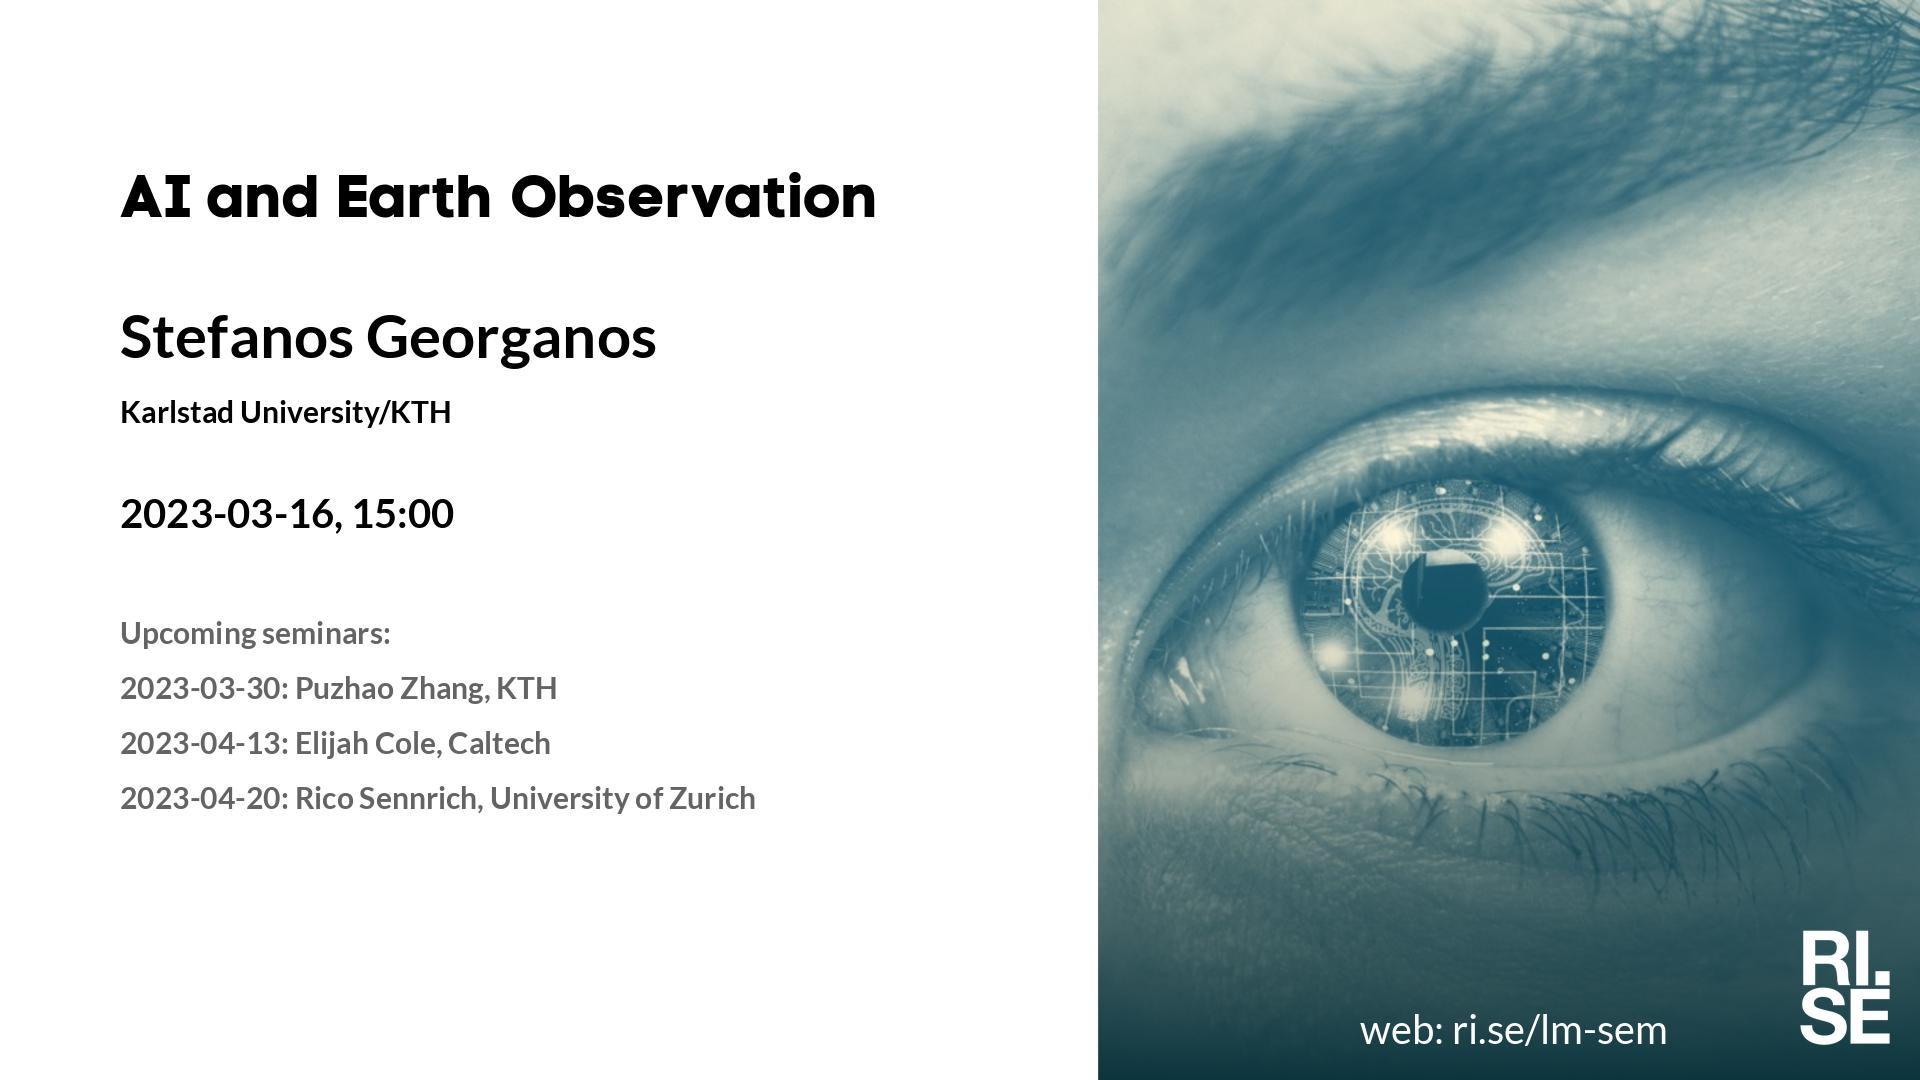
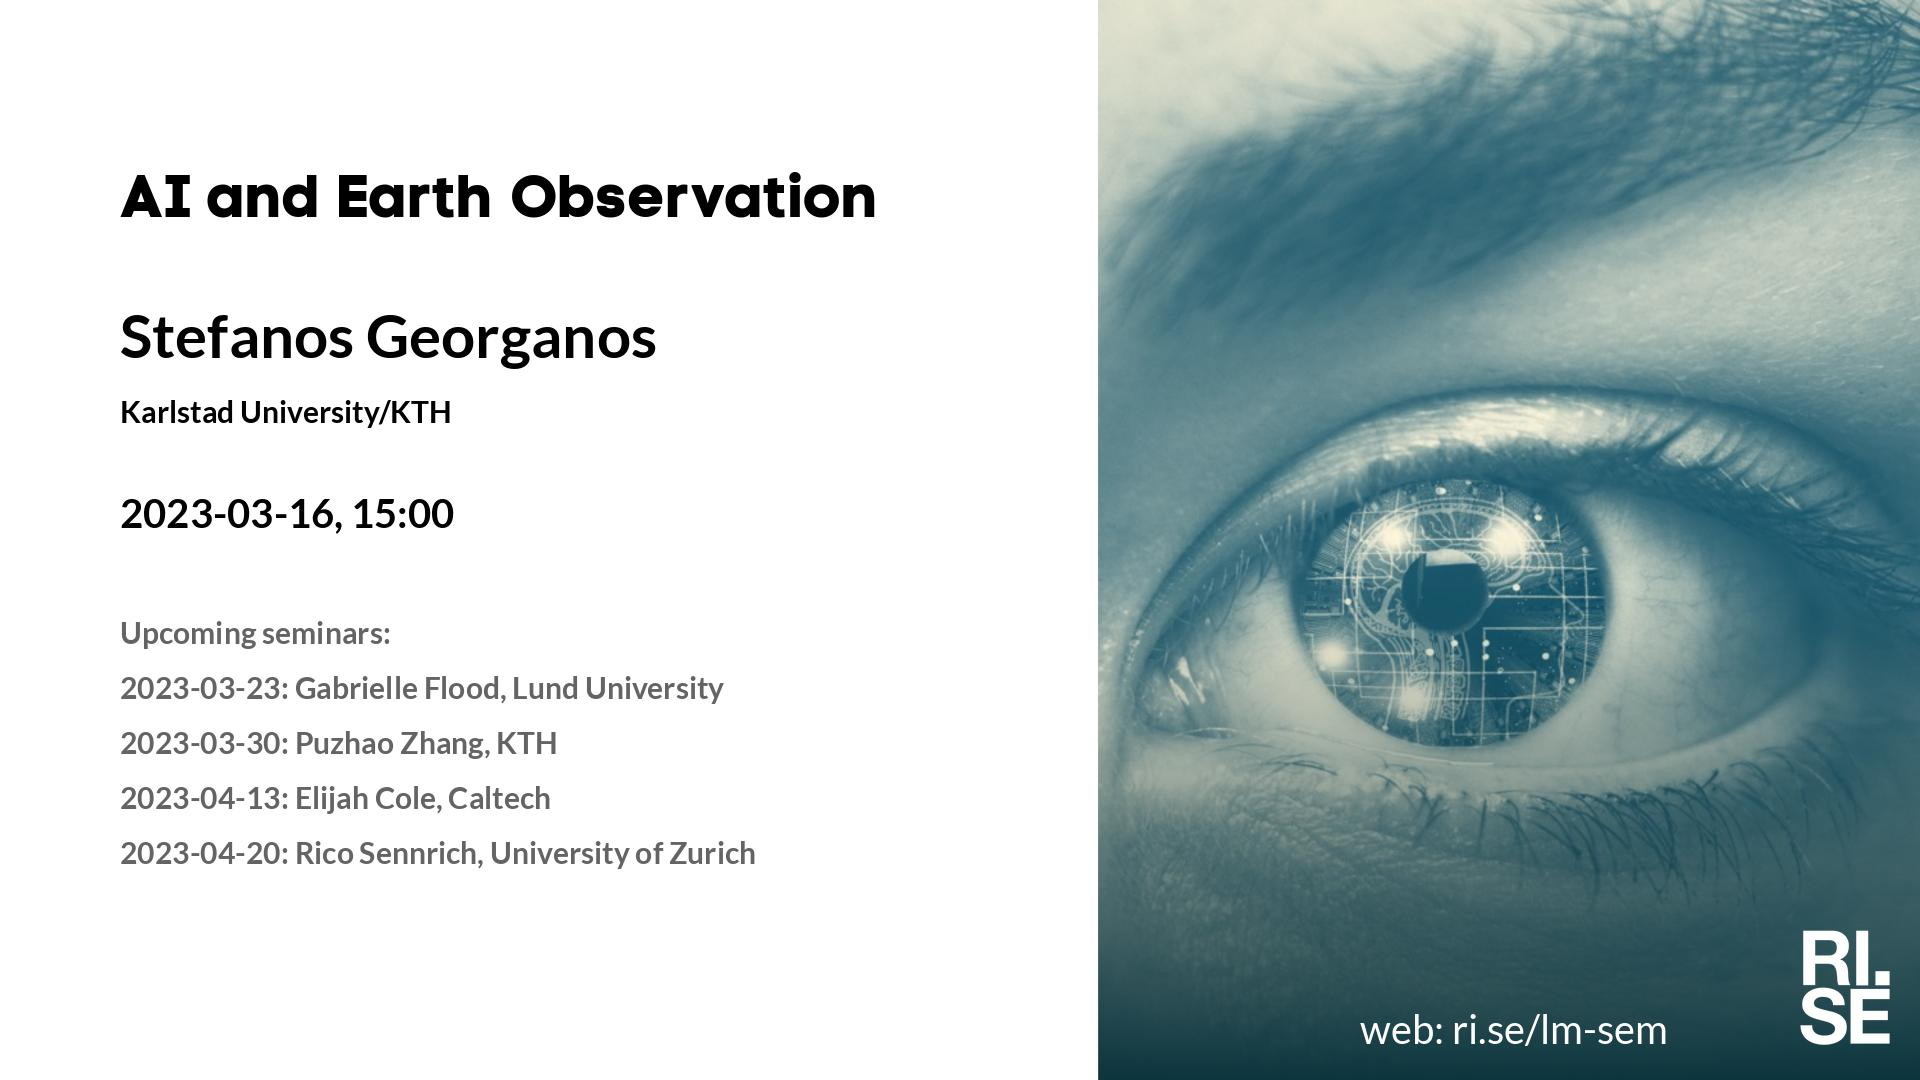
Updated plan on web site.

Changed region(s): [[0.0625, 0.7333, 0.4062, 0.825], [0.0938, 0.6111, 0.375, 0.7028]]

diff --git a/lm/index.md b/lm/index.md
@@ -17,7 +17,7 @@ table {border-collapse: collapse;}
 | <span style="color:red"> 2023-03-02 </span> | <span style="color:red"> Sportlov-STHLM </span> | <span style="color:red">  </span> | <span style="color:red">  </span> | <span style="color:red">  </span> | <span style="color:red">  </span> | <span style="color:red"> CANCELLED </span> |
 |  2023-03-09  |  [Shay Cohen, University of Edinburgh](2023-03-09.md)  |  [photo](photo-shay-cohen.jpg)  |  [social media ](social-media-shay-cohen.jpg)  |  [meeting backdrop ](meeting-backdrop-shay-cohen.jpg)  |  [youtube thumbnail ](youtube-thumbnail-shay-cohen.jpg)  |  S~~TAB~~P  |
 |  2023-03-16  |  [Stefanos Georganos, Karlstad University/KTH](2023-03-16.md)  |  [photo](photo-stefanos-georganos.jpg)  |  [social media ](social-media-stefanos-georganos.jpg)  |  [meeting backdrop ](meeting-backdrop-stefanos-georganos.jpg)  |  [youtube thumbnail ](youtube-thumbnail-stefanos-georganos.jpg)  |  STABP  |
-| <span style="color:grey"> 2023-03-23 </span> | <span style="color:grey"> Gabrielle F. ? </span> | <span style="color:grey">  </span> | <span style="color:grey">  </span> | <span style="color:grey">  </span> | <span style="color:grey">  </span> | <span style="color:grey"> S~~TABP~~ </span> |
+|  2023-03-23  |  [Gabrielle Flood, Lund University](2023-03-23.md)  |    |  [social media ](social-media-gabrielle-flood.jpg)  |  [meeting backdrop ](meeting-backdrop-gabrielle-flood.jpg)  |  [youtube thumbnail ](youtube-thumbnail-gabrielle-flood.jpg)  |  S~~TABP~~  |
 |  2023-03-30  |  [Puzhao Zhang, KTH](2023-03-30.md)  |  [photo](photo-puzhao-zhang.jpg)  |  [social media ](social-media-puzhao-zhang.jpg)  |  [meeting backdrop ](meeting-backdrop-puzhao-zhang.jpg)  |  [youtube thumbnail ](youtube-thumbnail-puzhao-zhang.jpg)  |  S~~TAB~~P  |
 | <span style="color:red"> 2023-04-06 </span> | <span style="color:red"> Påsklov/Skärtorsdag </span> | <span style="color:red">  </span> | <span style="color:red">  </span> | <span style="color:red">  </span> | <span style="color:red">  </span> | <span style="color:red"> CANCELLED </span> |
 |  2023-04-13  |  [Elijah Cole, Caltech](2023-04-13.md)  |  [photo](photo-elijah-cole.jpg)  |  [social media ](social-media-elijah-cole.jpg)  |  [meeting backdrop ](meeting-backdrop-elijah-cole.jpg)  |  [youtube thumbnail ](youtube-thumbnail-elijah-cole.jpg)  |  S~~TAB~~P  |

diff --git a/lm/2023-03-23.md b/lm/2023-03-23.md
@@ -2,7 +2,7 @@ Welcome to this week's Learning Machines seminar.
 
 **Title:** 
 
-**Speaker:** Shay Cohen, University of Edinburgh
+**Speaker:** Gabrielle Flood, Lund University
 
 **Abstract:** 
 
@@ -14,10 +14,9 @@ Welcome to this week's Learning Machines seminar.
 
 **Upcoming seminars:**
 
-* 2023-03-16: Stefanos Georganos, Karlstad University/KTH
-* 2023-03-23: Gabrielle Flood, Lund University
 * 2023-03-30: Puzhao Zhang, KTH
 * 2023-04-13: Elijah Cole, Caltech
+* 2023-04-20: Rico Sennrich, University of Zurich
 
 More information and coming seminars: [https://ri.se/lm-sem](https://ri.se/lm-sem)
 

diff --git a/lm/2023-03-16.md b/lm/2023-03-16.md
@@ -14,6 +14,7 @@ Welcome to this week's Learning Machines seminar.
 
 **Upcoming seminars:**
 
+* 2023-03-23: Gabrielle Flood, Lund University
 * 2023-03-30: Puzhao Zhang, KTH
 * 2023-04-13: Elijah Cole, Caltech
 * 2023-04-20: Rico Sennrich, University of Zurich
